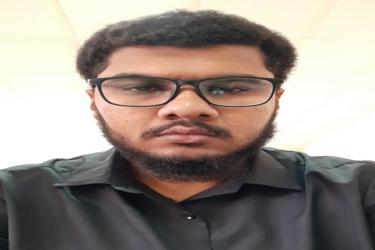
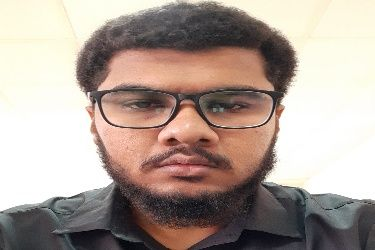
updated homepage

diff --git a/index.html b/index.html
@@ -93,7 +93,7 @@
 						<div class="home-content">
 							<h1 class="white-text">AUV ZHCET</h1>
 							<h4 class="white-text">Future of Marine Robotics </h4>
-							<button class="white-btn"><a href="https://www.backmytalent.com/#/project/14/autonomous-underwater-vehicle-from-students-of-auv-zhcet-club">Donate Us</a></button>
+							<button class="white-btn"><a href="https://www.backmytalent.com/#/project/14/autonomous-underwater-vehicle-from-students-of-auv-zhcet-club">Support Us</a></button>
 							<button class="main-btn"><a href="https://www.linkedin.com/company/auv-zhcet/">Follow us!</a></button>
 						</div>
 					</div>
@@ -150,6 +150,8 @@
 											<img class="img-responsive" src="./img/mech1.jpeg" alt="">
 											<img class="img-responsive" src="./img/mech2.jpeg" alt="">
 											<img class="img-responsive" src="./img/mech3.jpeg" alt="">
+											<img class="img-responsive" src="./img/mech4.jpg" alt="">
+											<img class="img-responsive" src="./img/mech5.jpg" alt="">
 										</div>
 										<p>The Mechanical team is responsible for all the various Mechanics and Actuation tasks along with proper designing and simulation of vehicle. The team uses concepts of Structural Mechanics, Fluid mechanics, Material Technology, Thermodynamics and software i.e. Solidworks and ANSYS to Design, Simulate and Fabricate the Vehicle.
 
@@ -219,8 +221,10 @@
 										<div class="row">
 											<div class="col-md-6">
 												<div id="about-slider2" class="owl-carousel owl-theme">
-												<img class="img-responsive" src="./img/comp1.jpeg" alt="">
-												<img class="img-responsive" src="./img/comp2.jpeg" alt="">
+												<img class="img-responsive" src="./img/comp3.jpg" alt="">
+												<img class="img-responsive" src="./img/comp1.jpg" alt="">
+												<img class="img-responsive" src="./img/comp4.jpg" alt="">
+												<img class="img-responsive" src="./img/comp2.jpg" alt="">
 											</div>
 											<p>The software team of the AUV-ZHCET is responsible for introducing the autonomous features in the vehicle. We use ROS(Robot operating system) and various other technologies for that purpose. Our team is also responsible for the vision of the AUV too. We use technologies like openCV for the purpose of object detection so as to perceive the vehicle's surroundings and making the autonomy of the AUV more robust.
 
@@ -718,10 +722,16 @@
 							<!-- Modal body -->
 							<div class="modal-body">
 								<div class="row">
-									<center><img class="img-responsive" src="./img/mathworks.jpg" style="width: 150px"></center>
+									<center><img class="img-responsive" src="./img/mathworks.jpg" style="width: 150px">
+                           <p>MathWorks is an American privately held corporation that specializes in mathematical computing software. Its major products include MATLAB and Simulink, which support data analysis and simulation.</p>
+													 <a href="https://in.mathworks.com/">Go To MathWorks</a>
+									</center>
 								</div>
 								<div class="row">
-									<center><img class="img-responsive" src="./img/solidworks.png" style="width: 150px"></center>
+									<center><img class="img-responsive" src="./img/solidworks.png" style="width: 150px">
+                           <p> SolidWorks is a solid modeling computer-aided design (CAD) and computer-aided engineering (CAE) computer program that runs on Microsoft Windows.</p>
+													 <a href="https://www.solidworks.com/">Go To SolidWorks</a>
+									</center>
 								</div>
 							</div>
 						</div>
@@ -741,10 +751,14 @@
 						<!-- Modal body -->
 						<div class="modal-body">
 								<div class="row">
-									<h1 style="text-align: center">RIYADH AMUOBA</h1>
+									<center><img class="img-responsive" src="./img/amuoba-riyadh.png" style="width: 150px"></center>
+									<center> <p>AMUOBA Riyadh is a non-political, non-profitable organization of the alumni of Aligarh Muslim University (AMU), based in Riyadh, Kingdom of Saudi Arabia.</p>
+                       <a href="http://www.amuobariyadh.com/">Go To AMUOBA-RIYADH</a>
+									</center>
 								</div>
 								<div class="row">
-									<h1 style="text-align: center">QATAR AMUOBA</h1>
+									<h1 style="text-align: center">AMUOBA QATAR</h1>
+									<center> <p>AMUOBA QATAR is an alumni organization of Aligarh Muslim University (AMU), based in QATAR.</p></center>
 								</div>
 							</div>
 						</div>
@@ -765,9 +779,11 @@
 						<div class="modal-body">
 								<div class="row">
 									<center><img class="img-responsive" src="./img/amu-logo.png" style="width: 150px"></center>
+									<center> <p>Aligarh Muslim University is an Indian public central university. It was originally established by Sir Syed Ahmad Khan as Mohammedan Anglo-Oriental College in 1875. The College became Aligarh Muslim University in 1920.</p> <a href="https://www.amu.ac.in/">Go To AMU</a>  </center>
 								</div>
 								<div class="row">
 									<center><img class="img-responsive" src="./img/opensilicon.jpeg" style="width: 150px"></center>
+									<center><p> Open-Silicon is a semiconductor company founded in 2003 to provide traditional ASIC design, derivative and platform SoCs, and production handoffs where Open-Silicon provides manufacturing operations.  </p><a href="https://www.open-silicon.com/">Go To Open-Silicon</a></center>
 								</div>
 							</div>
 						</div>
@@ -787,10 +803,20 @@
 						<!-- Modal body -->
 						<div class="modal-body">
 								<div class="row">
-									<img class="img-responsive" src="./img/bluerobotics.png">
+								 <center>
+									<img class="img-responsive" src="./img/bluerobotics.png" style="width: 350px">
+									<p>Blue Robotics makes the BlueROV2 underwater vehicle and components and parts for marine robotics including thrusters, watertight enclosures, and more!</p>
+									<a href="https://bluerobotics.com/">Go To Blue-Robotics</a>
+                 </center>
 								</div>
 								<div class="row">
+								 <center>
 									<img class="img-responsive" src="./img/nationalinstruments.png">
+								 </center>
+								 <center>
+									<p> National Instruments Corporation, or NI, is an American multinational company with international operation. Headquartered in Austin, Texas, it is a producer of automated test equipment and virtual instrumentation software.</p>
+									<a href="https://www.ni.com/en-in.html">Go To National Instruments</a>
+								 </center>
 								</div>
 							</div>
 						</div>
@@ -855,7 +881,9 @@
 				<div class="row">
 					<div class="col-md-12">
 						<div class="number">
-							<img src="http://hitwebcounter.com/counter/counter.php?page=7035016&style=0010&nbdigits=5&type=page&initCount=0" title="Total visits" Alt="IP Address" border="0" >
+
+															<a href='https://www.symptoma.it/'>symptom checker</a> <script type='text/javascript' src='https://www.freevisitorcounters.com/auth.php?id=b277c3b237ab60ba8fd9d6aea297ecdced3b8c16'></script>
+<script type="text/javascript" src="https://www.freevisitorcounters.com/en/home/counter/543983/t/3"></script>
 							<br/><br>
 							<span class="white-text">Page visits</span>
 						</div>
@@ -992,7 +1020,7 @@
 				<div class="col-md-3">
 					<div class="team">
 						<div class="team-img">
-							<img class="img-responsive" src="./img/no-image.jpg" alt="">
+							<img class="img-responsive" src="./img/sameer_hasan.jpg" alt="">
 						</div>
 						<div class="team-content">
 							<h3>Sameer Hasan Khan</h3>
@@ -1102,13 +1130,12 @@
 					<h2 class="title">Get in touch</h2>
 				</div>
 				<!-- /Section-header -->
-
 				<!-- contact -->
 				<div class="col-sm-4">
 					<div class="contact">
 						<i class="fa fa-phone"></i>
 						<h3>Phone</h3>
-						<p><b>Syed Jawad Akhtar</b></p>
+						<p><b>Coordinator</b></p>
 						<p>+91 87 55 341105</p>
 					</div>
 				</div>
@@ -1117,7 +1144,7 @@
 				<!-- contact -->
 				<div class="col-sm-4">
 					<div class="contact">
-						<i class="fa fa-envelope"></i>
+						<a href="https://mail.google.com/mail/?view=cm&fs=1&to=seazhcet@gmail.com"><i class="fa fa-envelope"></i></a>
 						<h3>Email</h3>
 						<p>seazhcet@gmail.com</p>
 					</div>
@@ -1125,19 +1152,17 @@
 				<!-- /contact -->
 
 				<!-- contact -->
-				<div class="col-sm-4">
+		 		<div class="col-sm-4">
 					<div class="contact">
-						<i class="fa fa-map-marker"></i>
+			      <i class="fa fa-map-marker"></i>
 						<h3>Address</h3>
+						<p> <iframe src="https://www.google.com/maps/embed?pb=!1m14!1m8!1m3!1d14102.291886141613!2d78.0775007!3d27.9150749!3m2!1i1024!2i768!4f13.1!3m3!1m2!1s0x0%3A0xa58ba1bdb1b3141a!2sDepartment+Of+Mechanical+Engineering!5e0!3m2!1sen!2sin!4v1561492468621!5m2!1sen!2sin" width="300" height="200" frameborder="0" style="border:0" allowfullscreen></iframe> </p>
 						<p>Mechanical Engg. Dept. ZHCET, AMU, Aligarh-202002-UP-India</p>
 					</div>
 				</div>
 				<!-- /contact -->
-
 			</div>
 			<!-- /Row -->
-
-		</div>
 		<!-- /Container -->
 
 	</div>
